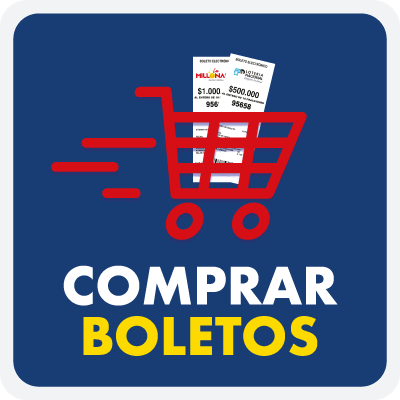
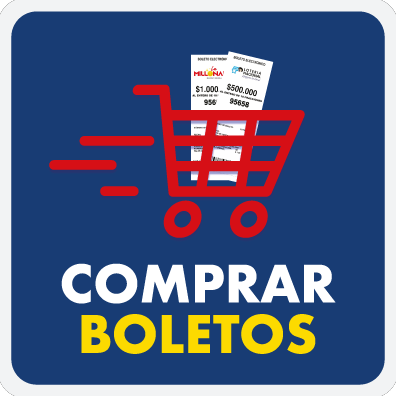
Corrigiendo detalles de estilo

diff --git a/loteriaNacionalFront/src/app/public/public.component.html b/loteriaNacionalFront/src/app/public/public.component.html
@@ -6,20 +6,12 @@
 <div id="mobileLanding">
   <a [href]="ventasLink" target="_parent" class="landingButton compras">
     <img src="assets/img/webicon01.png" alt="" />
-    <!--     <img class="loteria" src="assets/img/loteria-sombra.png" />
-    <img class="carrito" src="assets/img/carrito.png" />
-    <p>COMPRAR BOLETO</p> -->
   </a>
   <a [href]="consultasLink" class="landingButton consulta">
     <img src="assets/img/webicon02.png" alt="" />
-    <!--     <img class="loteria" src="assets/img/estrellas.png" />
-    <img class="carrito" src="assets/img/lupa.png" />
-    <p>CONSULTAR BOLETINES</p>
- -->
   </a>
   <a [href]="juegosLink" target="_parent" class="landingButton juegos">
     <img src="assets/img/webicon03.png" alt="" />
-    <!--     <img src="assets/img/juegos-online.png" alt="" /> -->
   </a>
   <a
     [href]="puntosDeLaSuerteLink"
@@ -27,6 +19,5 @@
     class="landingButton suerte"
   >
     <img src="assets/img/webicon04.png" alt="" />
-    <!--     <img src="assets/img/puntos-de-la-suerte.png" alt="" /> -->
   </a>
 </div>

diff --git a/loteriaNacionalFront/src/app/juegos/pozo/components/consulta/consulta.component.ts b/loteriaNacionalFront/src/app/juegos/pozo/components/consulta/consulta.component.ts
@@ -36,9 +36,10 @@ export class ConsultaComponent implements OnInit {
   ) {}
 
   async ngOnInit() {
-    console.log('En la consulta de loteria');
+    this.triggerLoader()
     this.sorteosJugados = await this.consulta.recuperarSorteosJugados();
     this.setSorteoDefault();
+    this.dismissLoader()
   }
 
   setSorteoDefault() {
@@ -97,7 +98,7 @@ export class ConsultaComponent implements OnInit {
   }
 
   isLoading: boolean = false;
-  loadingMessage: String = 'Consultando los resultados';
+  loadingMessage: String = 'Cargando datos';
 
   triggerLoader() {
     this.isLoading = true;
@@ -180,7 +181,7 @@ export class ConsultaComponent implements OnInit {
       return;
     }
     this.router.navigateByUrl(
-      `/consultas/pozo/${this.sorteoBoletin}`
+      `/consultas/pozo/boletin/${this.sorteoBoletin}`
     );
   }
   async buscarRango() {

diff --git a/loteriaNacionalFront/src/app/juegos/millonaria/components/consulta/consulta.component.ts b/loteriaNacionalFront/src/app/juegos/millonaria/components/consulta/consulta.component.ts
@@ -32,9 +32,10 @@ export class ConsultaComponent implements OnInit {
   ) {}
 
   async ngOnInit() {
-    console.log('En la consulta de la millonaria');
+    this.triggerLoader();
     this.sorteosJugados = await this.consulta.recuperarSorteosJugados();
     this.setSorteoDefault();
+    this.dismissLoader();
   }
 
   setSorteoDefault() {
@@ -100,7 +101,7 @@ export class ConsultaComponent implements OnInit {
   }
 
   isLoading: boolean = false;
-  loadingMessage: String = 'Consultando los resultados';
+  loadingMessage: String = 'Cargando datos';
 
   triggerLoader() {
     this.isLoading = true;

diff --git a/loteriaNacionalFront/src/app/juegos/lotto/components/consulta/consulta.component.ts b/loteriaNacionalFront/src/app/juegos/lotto/components/consulta/consulta.component.ts
@@ -32,9 +32,10 @@ export class ConsultaComponent implements OnInit {
   ) {}
 
   async ngOnInit() {
-    console.log('En la consulta de loteria');
+    this.triggerLoader();
     this.sorteosJugados = await this.consulta.recuperarSorteosJugados();
     this.setSorteoDefault();
+    this.dismissLoader();
   }
 
   setSorteoDefault() {
@@ -93,7 +94,7 @@ export class ConsultaComponent implements OnInit {
   }
 
   isLoading: boolean = false;
-  loadingMessage: String = 'Consultando los resultados';
+  loadingMessage: String = 'Cargando datos';
 
   triggerLoader() {
     this.isLoading = true;

diff --git a/loteriaNacionalFront/src/app/juegos/loteria/components/consulta/consulta.component.ts b/loteriaNacionalFront/src/app/juegos/loteria/components/consulta/consulta.component.ts
@@ -30,8 +30,10 @@ export class ConsultaComponent implements OnInit {
   ) {}
 
   async ngOnInit() {
+    this.triggerLoader();
     this.sorteosJugados = await this.consulta.recuperarSorteosJugados();
     this.setSorteoDefault();
+    this.dismissLoader();
   }
 
   setSorteoDefault() {
@@ -93,7 +95,7 @@ export class ConsultaComponent implements OnInit {
   }
 
   isLoading: boolean = false;
-  loadingMessage: String = "Consultando los resultados";
+  loadingMessage: String = 'Cargando datos';
 
   triggerLoader() {
     this.isLoading = true;

diff --git a/loteriaNacionalFront/src/app/public/public.component.scss b/loteriaNacionalFront/src/app/public/public.component.scss
@@ -35,27 +35,6 @@ $fuente-botones: "Monstserrat SemiBold";
       p {
         color: white;
       }
-      &.compras {
-        background: #27a9e1;
-        img.loteria {
-          width: 60%;
-        }
-        img.carrito {
-          width: 40%;
-        }
-      }
-      &.consulta {
-        background: #d12a2a;
-      }
-      &.juegos {
-        img {
-          width: 100%;
-        }
-        background: #021151;
-      }
-      &.suerte {
-        background: #005490;
-      }
     }
   }
 }

diff --git a/loteriaNacionalFront/src/app/juegos/pozo/components/boletin/boletin.component.ts b/loteriaNacionalFront/src/app/juegos/pozo/components/boletin/boletin.component.ts
@@ -1,8 +1,6 @@
 import { Component, OnInit } from '@angular/core';
 import { Router, ActivatedRoute, NavigationEnd } from '@angular/router';
-
 import { ConsultaService } from '../../services/consulta.service';
-
 @Component({
   selector: 'pozo-boletin',
   templateUrl: './boletin.component.html',

diff --git a/loteriaNacionalServer2/sorteosLoteriaNacional/models/ultimoResultado.js b/loteriaNacionalServer2/sorteosLoteriaNacional/models/ultimoResultado.js
@@ -77,7 +77,7 @@ ultimoResultadoSchema.statics = {
   },
   get: async function () {
     try {
-      return await this.findOne().lean();
+      return await this.findOne().populate('codigoPremioPrincipal').lean();
     } catch (error) {
       let response = {
         status: false,

diff --git a/loteriaNacionalFront/src/app/ventas/components/detalle-sorteo/detalle-sorteo.component.scss b/loteriaNacionalFront/src/app/ventas/components/detalle-sorteo/detalle-sorteo.component.scss
@@ -37,7 +37,7 @@ $color-botton: #28aae1;
 
   width: 100%;
   display: flex;
-  align-items: flex-start;
+  align-items: center;
   justify-content: space-between;
   padding: 0;
   margin: auto;

diff --git a/loteriaNacionalFront/src/app/ventas/components/menu-header/menu-header.component.scss b/loteriaNacionalFront/src/app/ventas/components/menu-header/menu-header.component.scss
@@ -76,7 +76,7 @@ $fuente-botones: "Monstserrat SemiBold";
   &.home {
     .contenedor_loteria {
       width: 19%;
-      height: 92px;
+      height:50px;
       font-size: 25px;
 
       img {

diff --git a/loteriaNacionalFront/src/app/juegos/pozo/components/ultimo-resultado/ultimo-resultado.component.scss b/loteriaNacionalFront/src/app/juegos/pozo/components/ultimo-resultado/ultimo-resultado.component.scss
@@ -36,7 +36,8 @@ $color-pozo: #04b865;
     margin: 15px 0;
 
     img {
-      height: 80px;
+      height: 140px;
+      margin-top: -60px;
       margin: auto;
     }
     p {

diff --git a/loteriaNacionalFront/src/app/juegos/loteria/Backlog.md b/loteriaNacionalFront/src/app/juegos/loteria/Backlog.md
@@ -1,0 +1,17 @@
+- Editar iconos del home para quitar lineas de colores - LISTO
+- Botones de compra en el home, hacer mas chiquitos - LISTO
+- Logo de pozo un poco mas grande en el bloque de ultimos resultados - LISTO
+- Agregar monto de premio a los ultimos resultados
+- Implementar cambios en vista de detalle de compra
+- Pozo boletin no funciona bien - LISTO
+- Agregar boton para volver al inicio
+- Agregar loader en el modulos de consulta - LISTO
+- En loteria consulta, agregar ultimos resultados al final
+- Cambiar tipo de fuente a Helvetica y Hanuman
+- Agregar menu vertical de compra debajo de cada ultimo resultado en consuta
+- Centrar contenedor de sorteo y premios en venta de boletos - LISTO
+- Editar estilo del carrito segun cambios 
+- Cronjob para resolucion de ventas fallidas
+- Automatizar resolucion de ventas fallidas
+- Validar premios no pagados
+- Modificar mensaje de premio instantaneo lotto
